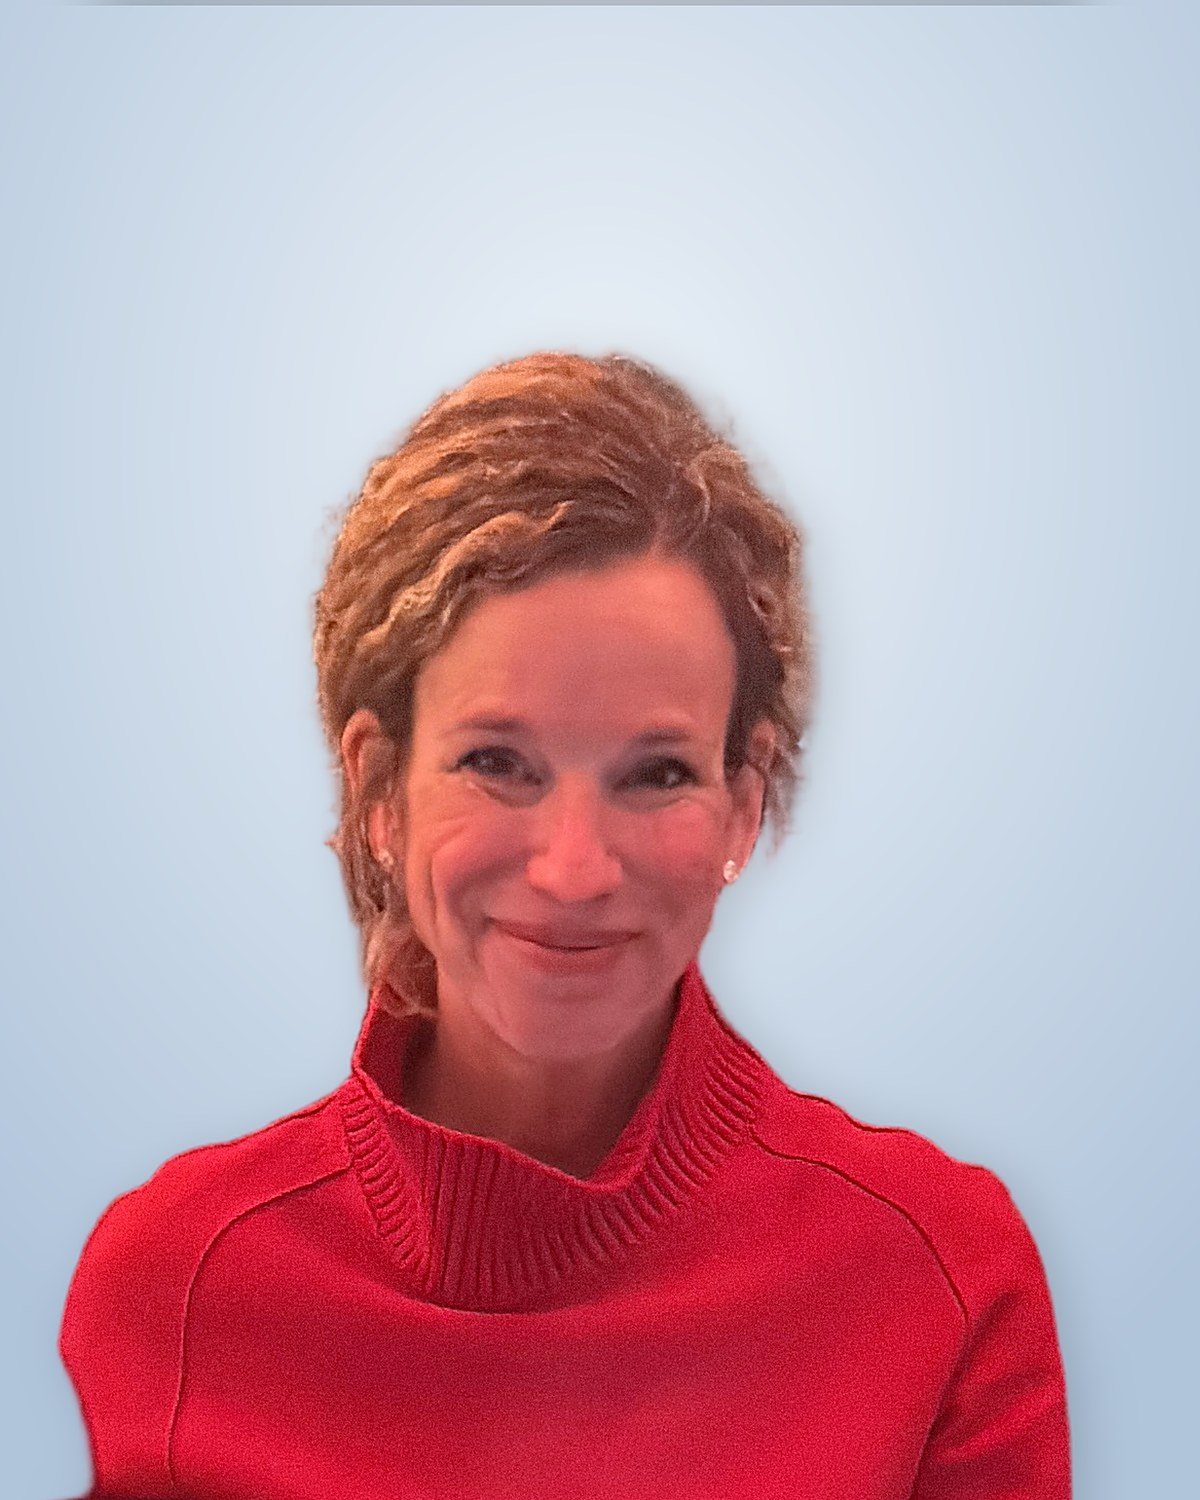
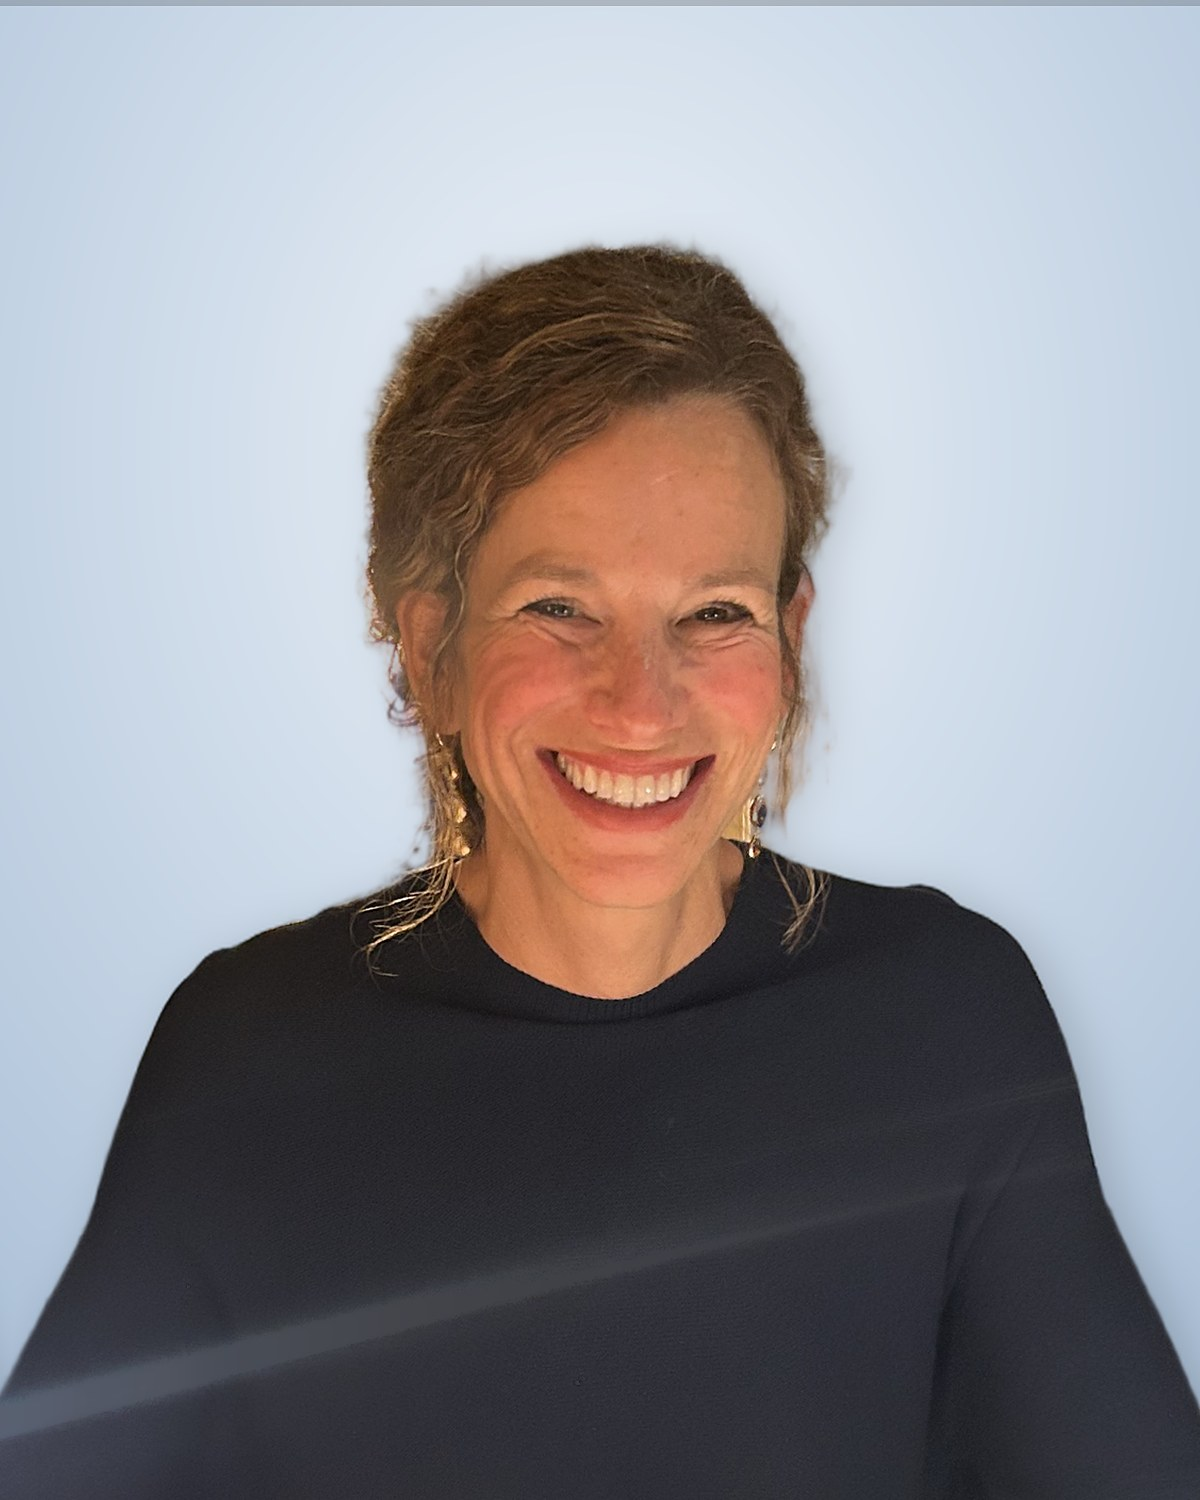
Neues Coverfoto und echte Fotos in der Fotostrecke
Claude-Session: https://claude.ai/code/session_01FNuzpsqxcqSJep2eLkRUHQ

diff --git a/index.html b/index.html
@@ -116,6 +116,10 @@ section { padding-block: 56px 8px; }
 .spread { display: grid; grid-template-columns: repeat(6, 1fr); gap: 10px; }
 .ph { background: linear-gradient(140deg, var(--ph-a), var(--ph-b)); display: grid; place-items: end start; padding: 12px; max-width: 100%; position: relative; }
 .ph span { font: 400 1rem/1.1 var(--f-head); text-transform: uppercase; }
+.ph.has-img { background-size: cover; background-position: center; color: #fff; overflow: hidden; }
+.ph.has-img::before { content: ""; position: absolute; inset: 0; background: linear-gradient(to bottom, rgba(0,0,0,.25), transparent 30%, transparent 55%, rgba(0,0,0,.6)); }
+.ph.has-img span, .ph.has-img small { position: relative; z-index: 1; color: #fff; }
+.ph.has-img small { position: absolute; }
 .ph small { position: absolute; top: 10px; left: 12px; font: 600 .7rem/1 var(--f-body); color: var(--muted); letter-spacing: .06em; text-transform: uppercase; }
 .spread .ph:nth-child(1) { grid-column: span 4; aspect-ratio: 16/10; }
 .spread .ph:nth-child(2) { grid-column: span 2; }
@@ -206,11 +210,11 @@ section { padding-block: 56px 8px; }
   <section id="fotos" aria-labelledby="h-fotos">
     <div class="sec-head"><h2 id="h-fotos">The Best Moments</h2><span class="tag">Photo Special</span></div>
     <div class="spread">
-      <div class="ph"><small>from Claudia</small><span>Summer on the Rhine: the photo of the year</span></div>
-      <div class="ph"><small>from Markus</small><span>Carnival Monday: Nicola as a princess</span></div>
-      <div class="ph"><small>from Petra</small><span>The 40th birthday</span></div>
-      <div class="ph"><small>from Anna</small><span>Shopping on the Kö</span></div>
-      <div class="ph"><small>Video · 0:58</small><span>Greetings from Cologne</span></div>
+      <div class="ph has-img" style="background-image:url('img/m1.jpg')"><small>from Dirk</small><span>Out and about in the sunshine</span></div>
+      <div class="ph has-img" style="background-image:url('img/m2.jpg')"><small>from Dirk</small><span>Carnival mode: fully activated</span></div>
+      <div class="ph has-img" style="background-image:url('img/m3.jpg');background-position:70% 30%"><small>from Dirk</small><span>Black tie, big smiles</span></div>
+      <div class="ph has-img" style="background-image:url('img/m4.jpg');background-position:60% 30%"><small>from Dirk</small><span>Cheers to Christmas</span></div>
+      <div class="ph has-img" style="background-image:url('img/m5.jpg');background-position:50% 25%"><small>from Dirk</small><span>Golden hour in the garden</span></div>
     </div>
   </section>
 
